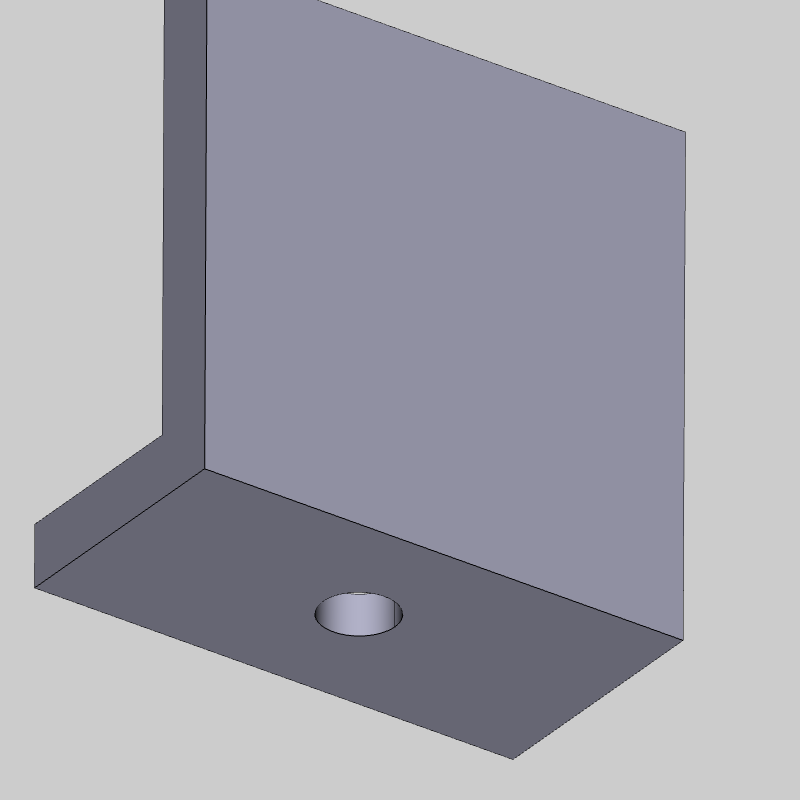
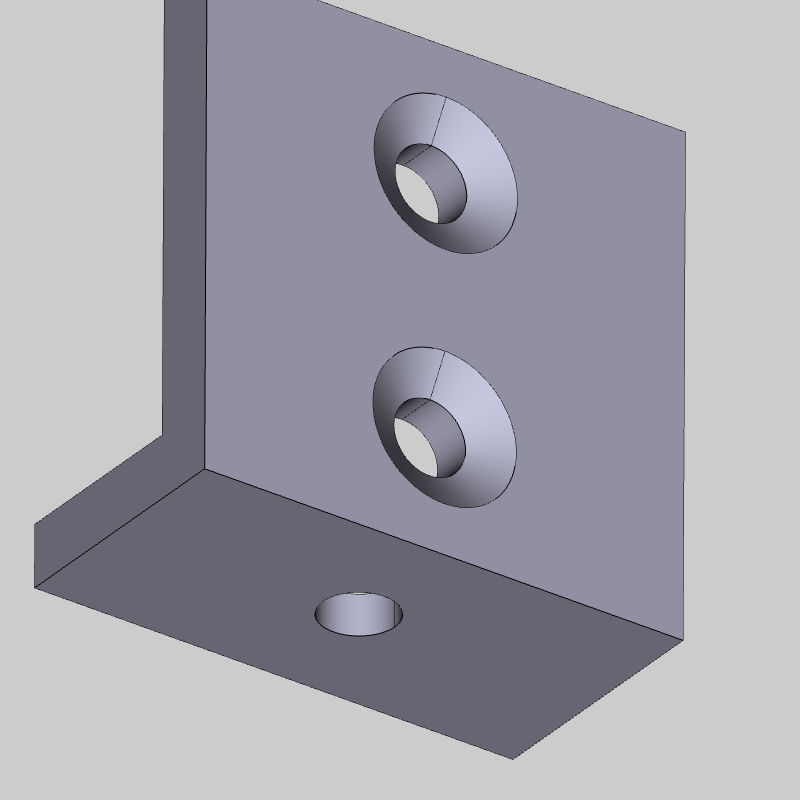
round4

Changed region(s): [[0.4688, 0.0938, 0.6562, 0.3438], [0.4688, 0.4375, 0.6562, 0.6562]]

diff --git a/claude_bracket/part.py b/claude_bracket/part.py
@@ -74,23 +74,13 @@ def make_csk_cutter(cx, cy, cz, axis, depth, hole_r, csk_r, csk_depth):
 # Hole 1: upper, centered at (X=W/2, Y=0..T, Z=H-5=15)
 # Hole 2: lower, centered at (X=W/2, Y=0..T, Z=5)
 for z_center in [H - 5.0, 5.0]:
-    # XZ workplane sits at Y=0; extrude goes in +Y.
-    # offset vector is in world coords: (X=W/2, Y=0, Z=z_center)
-    through_cyl = (
-        cq.Workplane("XZ")
-        .transformed(offset=cq.Vector(W / 2, 0, z_center))
-        .circle(hole_r)
-        .extrude(T)   # Y=0 → Y=T
-    )
-    # Countersink: large opening at Y=0 (front face), narrows to hole_r at Y=csk_depth
-    csk_frustum = (
-        cq.Workplane("XZ")
-        .transformed(offset=cq.Vector(W / 2, 0, z_center))
-        .circle(csk_r)
-        .workplane(offset=csk_depth)
-        .circle(hole_r)
-        .loft()
-    )
+    origin = cq.Vector(W / 2, 0, z_center)
+    drill_dir = cq.Vector(0, 1, 0)  # +Y: front face → back face
+    # Through-hole cylinder Y=0..T
+    through_cyl = cq.CQ(cq.Solid.makeCylinder(hole_r, T, pnt=origin, dir=drill_dir))
+    # Countersink frustum: large (csk_r) at Y=0, narrows to hole_r at Y=csk_depth
+    csk_frustum = cq.CQ(cq.Solid.makeCone(csk_r, hole_r, csk_depth,
+                                           pnt=origin, dir=drill_dir))
     bracket = bracket.cut(through_cyl).cut(csk_frustum)
 
 # ── Horizontal plate hole ─────────────────────────────────────────────────────
